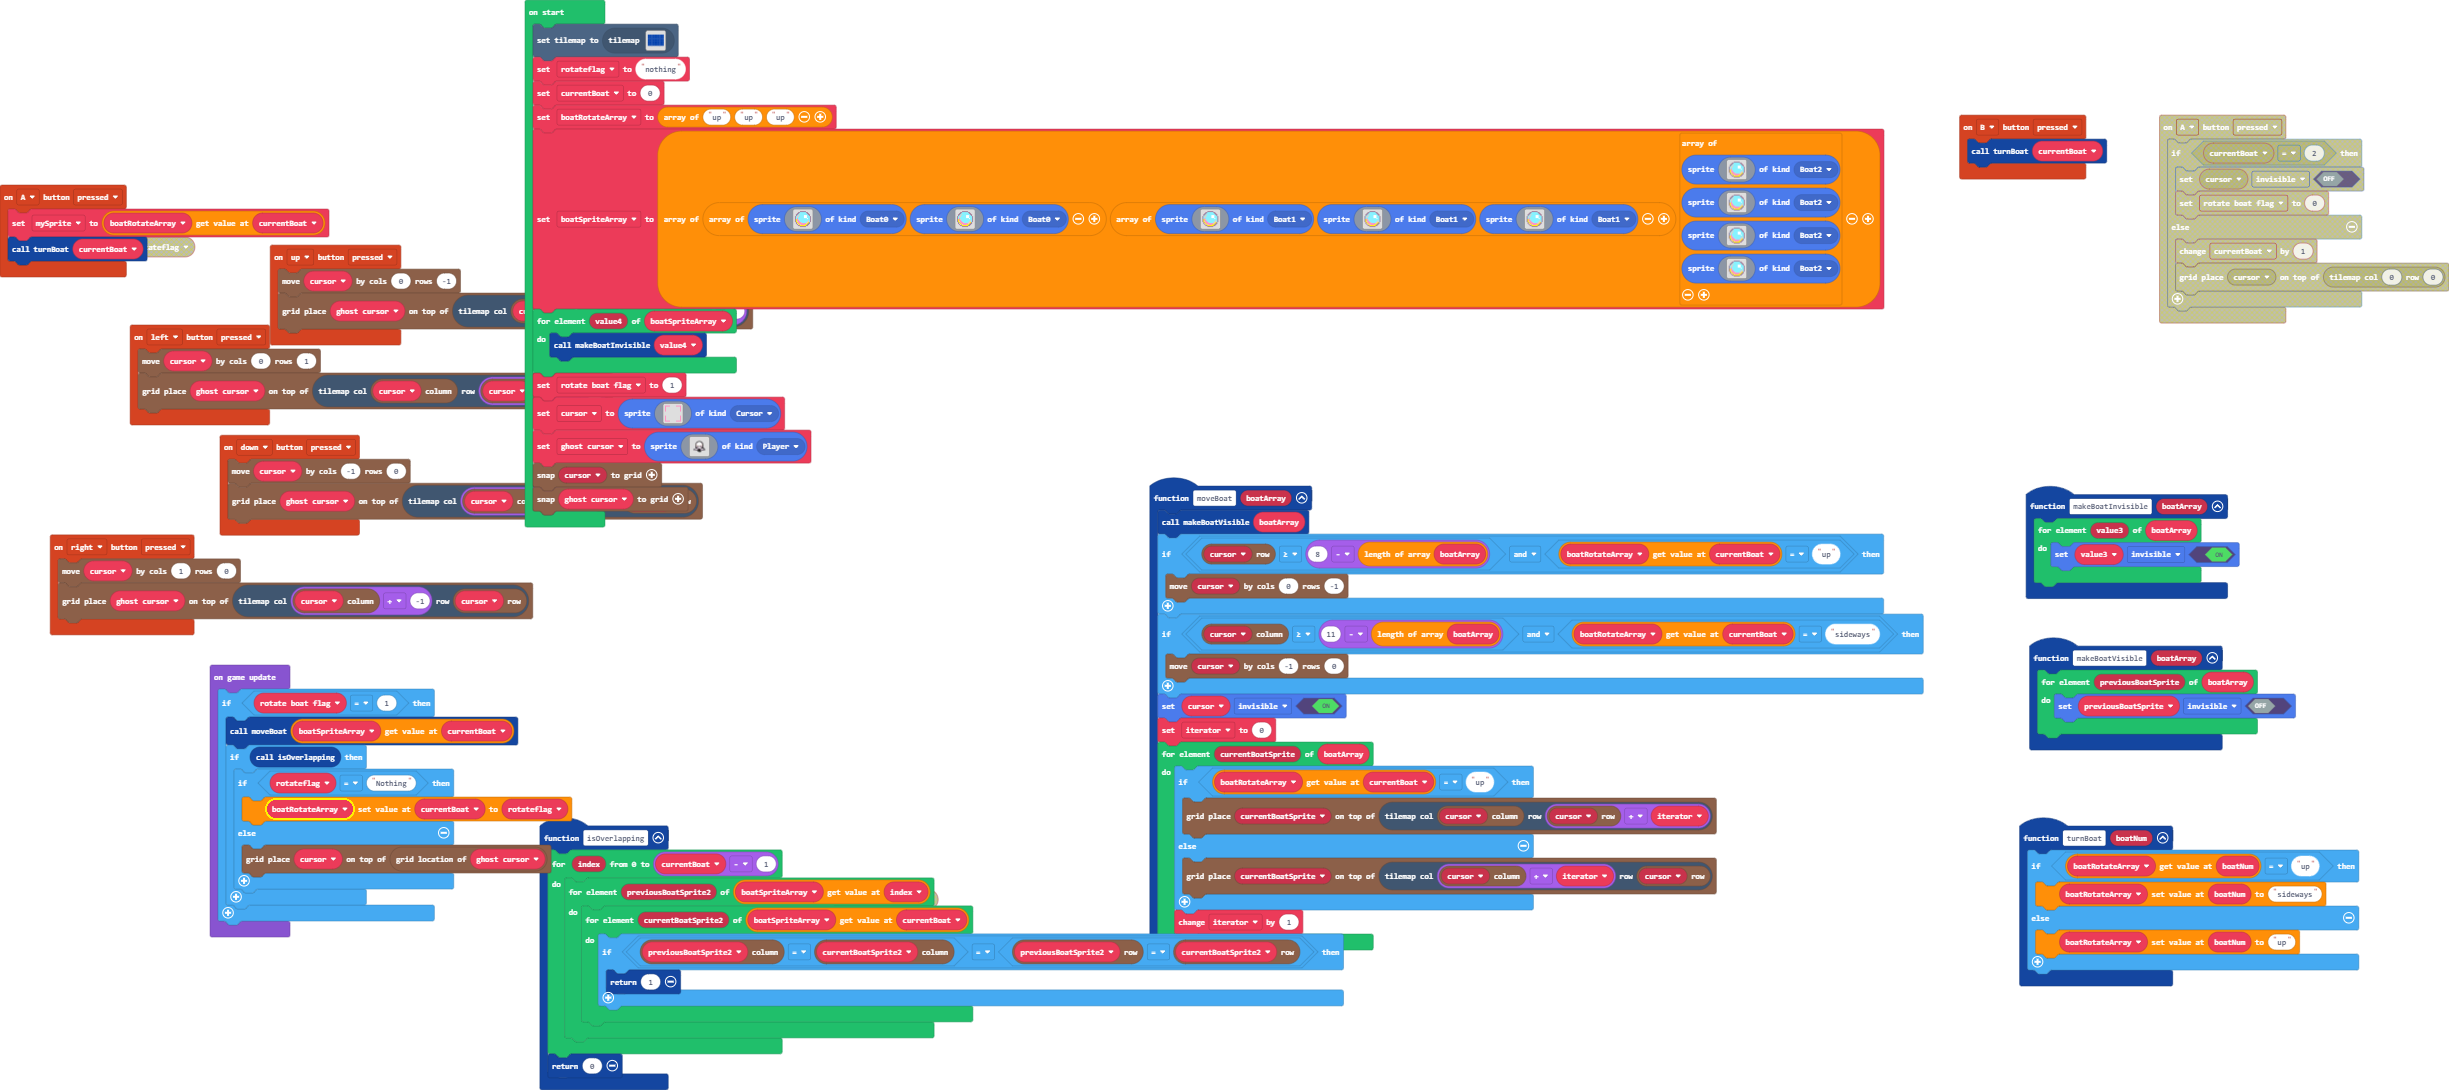
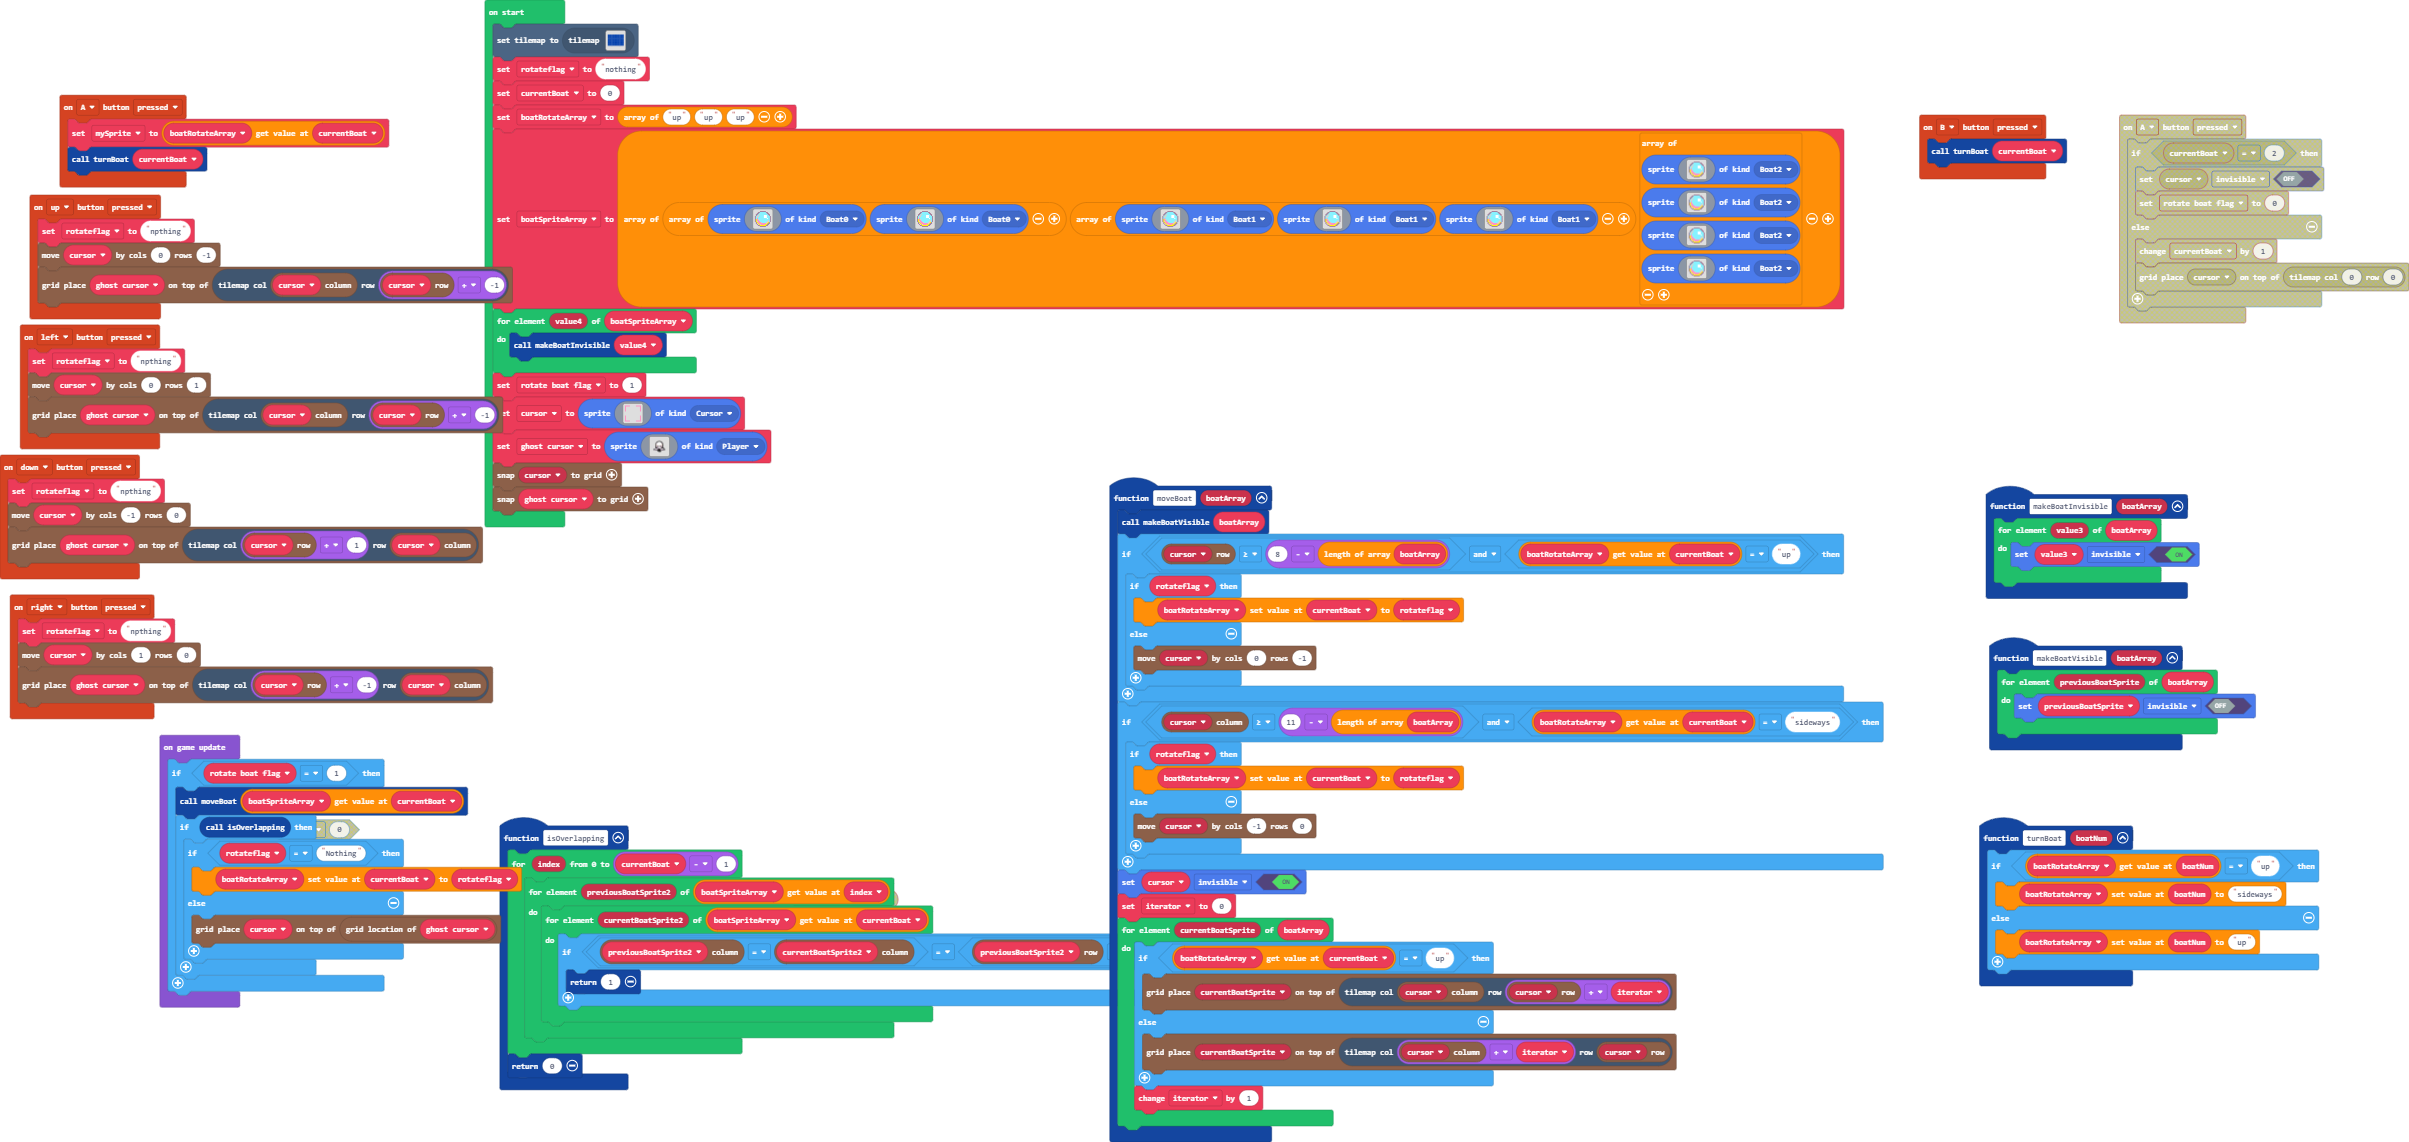
fixed rotate bug

diff --git a/main.ts b/main.ts
@@ -5,8 +5,9 @@ namespace SpriteKind {
     export const Boat2 = SpriteKind.create()
 }
 controller.up.onEvent(ControllerButtonEvent.Pressed, function () {
+    rotateflag = "npthing"
     grid.move(cursor, 0, -1)
-    grid.place(ghost_cursor, tiles.getTileLocation(grid.spriteCol(cursor), grid.spriteRow(cursor) + 1))
+    grid.place(ghost_cursor, tiles.getTileLocation(grid.spriteCol(cursor), grid.spriteRow(cursor) + -1))
 })
 controller.B.onEvent(ControllerButtonEvent.Pressed, function () {
     turnBoat(currentBoat)
@@ -21,20 +22,30 @@ controller.A.onEvent(ControllerButtonEvent.Pressed, function () {
     turnBoat(currentBoat)
 })
 controller.left.onEvent(ControllerButtonEvent.Pressed, function () {
+    rotateflag = "npthing"
     grid.move(cursor, 0, 1)
     grid.place(ghost_cursor, tiles.getTileLocation(grid.spriteCol(cursor), grid.spriteRow(cursor) + -1))
 })
 controller.right.onEvent(ControllerButtonEvent.Pressed, function () {
+    rotateflag = "npthing"
     grid.move(cursor, 1, 0)
-    grid.place(ghost_cursor, tiles.getTileLocation(grid.spriteCol(cursor) + -1, grid.spriteRow(cursor)))
+    grid.place(ghost_cursor, tiles.getTileLocation(grid.spriteRow(cursor) + -1, grid.spriteCol(cursor)))
 })
 function moveBoat (boatArray: any[]) {
     makeBoatVisible(boatArray)
     if (grid.spriteRow(cursor) >= 8 - boatArray.length && boatRotateArray[currentBoat] == "up") {
-        grid.move(cursor, 0, -1)
+        if (rotateflag) {
+            boatRotateArray[currentBoat] = rotateflag
+        } else {
+            grid.move(cursor, 0, -1)
+        }
     }
     if (grid.spriteCol(cursor) >= 11 - boatArray.length && boatRotateArray[currentBoat] == "sideways") {
-        grid.move(cursor, -1, 0)
+        if (rotateflag) {
+            boatRotateArray[currentBoat] = rotateflag
+        } else {
+            grid.move(cursor, -1, 0)
+        }
     }
     cursor.setFlag(SpriteFlag.Invisible, true)
     iterator = 0
@@ -48,8 +59,9 @@ function moveBoat (boatArray: any[]) {
     }
 }
 controller.down.onEvent(ControllerButtonEvent.Pressed, function () {
+    rotateflag = "npthing"
     grid.move(cursor, -1, 0)
-    grid.place(ghost_cursor, tiles.getTileLocation(grid.spriteCol(cursor) + 1, grid.spriteRow(cursor)))
+    grid.place(ghost_cursor, tiles.getTileLocation(grid.spriteRow(cursor) + 1, grid.spriteCol(cursor)))
 })
 function makeBoatInvisible (boatArray: Sprite[]) {
     for (let value3 of boatArray) {
@@ -82,8 +94,9 @@ let cursor: Sprite = null
 let boatSpriteArray: Sprite[][] = []
 let boatRotateArray: string[] = []
 let currentBoat = 0
+let rotateflag = ""
 tiles.setCurrentTilemap(tilemap`level1`)
-let rotateflag = "nothing"
+rotateflag = "nothing"
 currentBoat = 0
 boatRotateArray = ["up", "up", "up"]
 boatSpriteArray = [[sprites.create(img`
